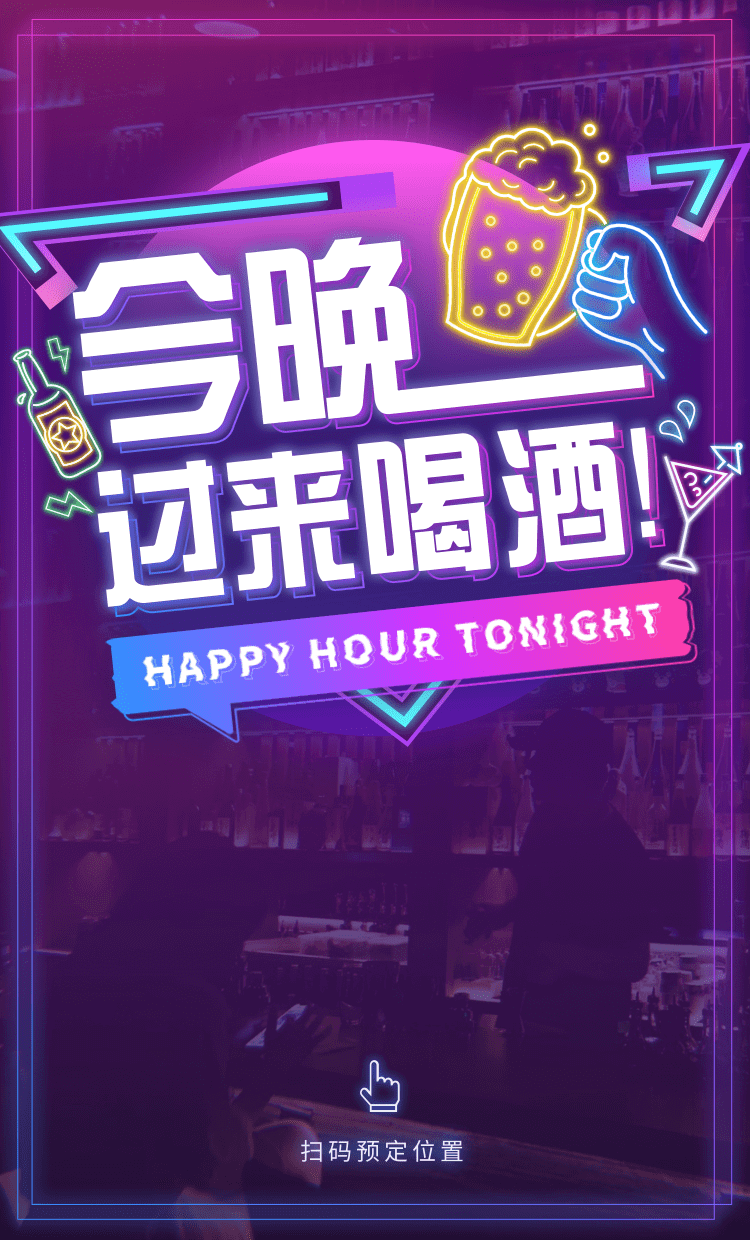
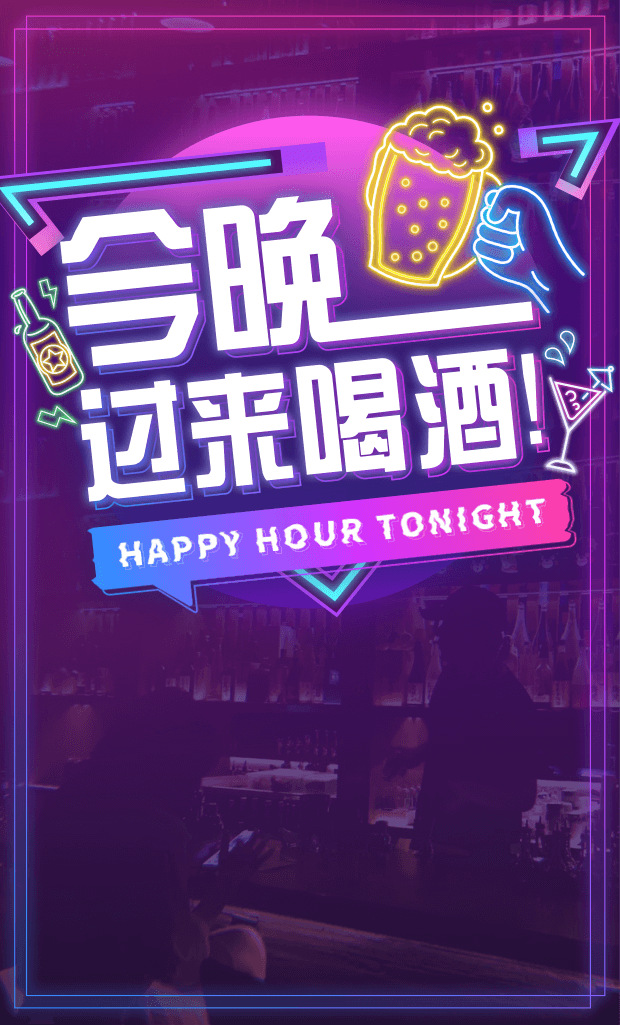
二维码背景更换

diff --git a/module/pages/code/code.js b/module/pages/code/code.js
@@ -4,13 +4,16 @@ const PageHelper = new PageConfig();
 const wxManager = require('../../../utils/wxManager');
 const httpManager = require('../../../lib/request/httpManager');
 const ENV = require('../../../lib/request/env');
-
+const PageConstant = require('../../../constant/page');
+const { getShopCodeBg } = require('../../../service/shop'); 
 Page({
   /**
    * 页面的初始数据
    */
   data: {
-    codeImageUrl: ''
+    codeBgUrl: '',
+    codeImageUrl: '',
+    shopName: ''
   },
 
   /**
@@ -21,13 +24,36 @@ Page({
     this.setData({
       codeImageUrl: `${ENV.sourceHost}${options.shareImg}`
     });
+    this.getShopCodeBgWrap()
   },
 
   /**
    * 生命周期函数--监听页面显示
    */
   onShow: function() {},
-
+  getShopCodeBgWrap() {
+    PageHelper.requestWrapper(getShopCodeBg())
+      .then(res => {
+        console.log(res)
+        this.setData({
+          codeBgUrl: `${ENV.sourceHost}${res.backImg}`,
+          codeImageUrl: `${ENV.sourceHost}${res.codeImg}`,
+          shopName: res.name
+        })
+      })
+      .catch(err => {
+        console.log(err)
+        // PageHelper.showFailToast('保存失败，请重试');
+      });
+  },
+  handleCodeImage(e){
+    const type = e.detail.type;
+    if (type === "left") { // 下载
+      
+    } else { // 保存
+      this.handleSaveImage()
+    }
+  },
   handleSaveImage() {
     this.startDraw();
   },
@@ -94,8 +120,9 @@ Page({
     const ctx = wx.createCanvasContext('myCanvas', this);
     ctx.setFillStyle(WHITE_COLOR);
     ctx.fillRect(0, 0, height, width);
-
-    ctx.drawImage('/module/image/code-bg.png', 0, 0, width, height);
+    
+    // ctx.drawImage('/module/image/code-bg.png', 0, 0, width, height);
+    ctx.drawImage(this.data.codeBgUrl, 0, 0, width, height);
 
     // 二维码背景圆，圆的原点x坐标，y坐标，半径，起始弧度，终止弧度
     const arcRadius = 44;
@@ -104,9 +131,16 @@ Page({
     ctx.fill();
 
     // 绘制二维码，图片路径，左上角x坐标，左上角y坐标，宽，高
-    ctx.drawImage(codeImagePath, 112, 330, 2 * codeRadius, 2 * codeRadius);
-    ctx.restore();
+    // ctx.drawImage(codeImagePath, 112, 330, 2 * codeRadius, 2 * codeRadius);
+    // ctx.restore();
 
+    // 绘制商家店铺名称
+    const shopName = this.data.shopName;
+    ctx.setFontSize(12);
+    ctx.setTextAlign('center');
+    ctx.setFillStyle(WHITE_COLOR);
+    ctx.setGlobalAlpha(0.8);
+    ctx.fillText(shopName, 150, 430);
     //绘制到 canvas 上
     ctx.draw(false, () => {
       this.saveCanvasImage();
@@ -142,5 +176,8 @@ Page({
           this.saveToAlbum(imageSource);
         });
       });
+  },
+  tapReplaceBg(){
+    wxManager.navigateTo(PageConstant.SHOP_CODE_URL)
   }
 });

diff --git a/module/pages/shop-code/index.js b/module/pages/shop-code/index.js
@@ -1,0 +1,93 @@
+// module/pages/code/code.js
+const { PageConfig } = require('../../../utils/page');
+const PageHelper = new PageConfig();
+const wxManager = require('../../../utils/wxManager');
+const httpManager = require('../../../lib/request/httpManager');
+const ENV = require('../../../lib/request/env');
+const PageConstant = require('../../../constant/page');
+const commonService = require('../../../service/common'); 
+const { saveCodeBg } = require('../../../service/shop'); 
+const { getFileName } = require('../../../utils/global');
+const { Folder } = require('../../../constant/global');
+
+Page({
+  /**
+   * 页面的初始数据
+   */
+  data: {
+    enabled: false,
+    codeBgUrl: '',
+    codeBgPath: ''
+  },
+
+  /**
+   * 生命周期函数--监听页面加载
+   */
+  onLoad: function (options) {
+    PageHelper.setupPageConfig(this);
+  },
+
+  /**
+   * 生命周期函数--监听页面显示
+   */
+  onShow: function () { },
+  tapReplaceBg() {
+    this.handleChooseCodeBg();
+  },
+  handleChooseCodeBg() {
+    wxManager.chooseImage().then(res => {
+      console.log(res)
+      let tempFilePaths = res.tempFilePaths;
+      let params = {
+        type: 'shopCodeBg',
+        src: tempFilePaths[0],
+        callBack: 'callbackShopCodeBg'
+      }
+      wxManager.navigateTo(PageConstant.UPLOAD, params);
+    });
+  },
+  callbackShopCodeBg(img){
+    this.uploadImage(img, Folder.FILE_FOLDER_COVER).then(res => {
+        console.log(res)
+        this.setData({
+          enabled: true,
+          codeBgPath: res,
+          codeBgUrl: `${ENV.sourceHost}${res}`
+        });
+      });
+  },
+  /**
+   * 通用上传
+   * @param {string} imageUrl 图片地址
+   * @param {string} folder   存储的文件夹路径
+   */
+  uploadImage(imageUrl, folder) {
+    return new Promise(resolve => {
+      const uploadParams = this.queryUploadParams(imageUrl, folder);
+      PageHelper.requestWrapper(commonService.uploadImage(uploadParams)).then(res => {
+        resolve(res);
+      });
+    });
+  },
+  queryUploadParams(imagePath, floder) {
+    return {
+      filePath: imagePath,
+      formData: {
+        fileName: getFileName(imagePath),
+        floder: floder
+      }
+    };
+  },
+  // 确认上传
+  onClickBtn(){
+    const { enabled, codeBgPath } = this.data;
+    if (!enabled) return;
+      PageHelper.requestWrapper(saveCodeBg({ imgPath: codeBgPath }))
+      .then(res => {
+        console.log("上传成功")
+      })
+      .catch(err => {
+        PageHelper.showFailToast('上传失败，请重试');
+      });
+  }
+});

diff --git a/service/shop.js b/service/shop.js
@@ -58,3 +58,42 @@ export function getShopInfo() {
       });
   });
 }
+
+/**
+ * 店铺信息-获取商家分享图信息
+ */
+export function getShopCodeBg() {
+  return new Promise((resolve, reject) => {
+    httpManager
+      .get({
+        url: '/merchant/code/info',
+        contentType: httpManager.JSON
+      })
+      .then(res => {
+        resolve(res);
+      })
+      .catch(e => {
+        reject(e);
+      });
+  });
+}
+
+/**
+ * 保存，修改二维吗背景图
+ */
+export function saveCodeBg(params) {
+  return new Promise((resolve, reject) => {
+    httpManager
+      .post({
+        url: '/merchant/code/back',
+        params: params,
+        contentType: httpManager.FORM_URLENCODED
+      })
+      .then(res => {
+        resolve(res);
+      })
+      .catch(e => {
+        reject(e);
+      });
+  });
+}

diff --git a/constant/page.js b/constant/page.js
@@ -35,6 +35,8 @@ export const ACCOUNT_URL = '/module/pages/account/account';
 
 export const DRAW_DEPOSIT_URL = '/module/pages/draw-deposit/draw-deposit';
 
+export const SHOP_CODE_URL = '/module/pages/shop-code/index';
+
 /* 分包 module-business */
 
 export const BUSINESS_TIME_URL = '/module-business/pages/business-time/business-time';

diff --git a/pages/upload/upload.js b/pages/upload/upload.js
@@ -42,6 +42,10 @@ Page({
       width: cutWidth,
       height: cutWidth / 345 * 600
     },
+    shopCodeBg: { // 商家二维码底图 设计图310 * 513
+      width: cutWidth,
+      height: cutWidth / 375 * 620
+    },
     callBack: '',//回调函数名字
     index: ''//编辑回调下标
   },

diff --git a/components/action-bottom/index.js b/components/action-bottom/index.js
@@ -23,7 +23,11 @@ Component({
       type: Boolean,
       value: true
     },
-    
+    /*按钮调整*/
+    newStyle: {
+      type: Boolean,
+      value: false
+    }
   },
 
   /**
